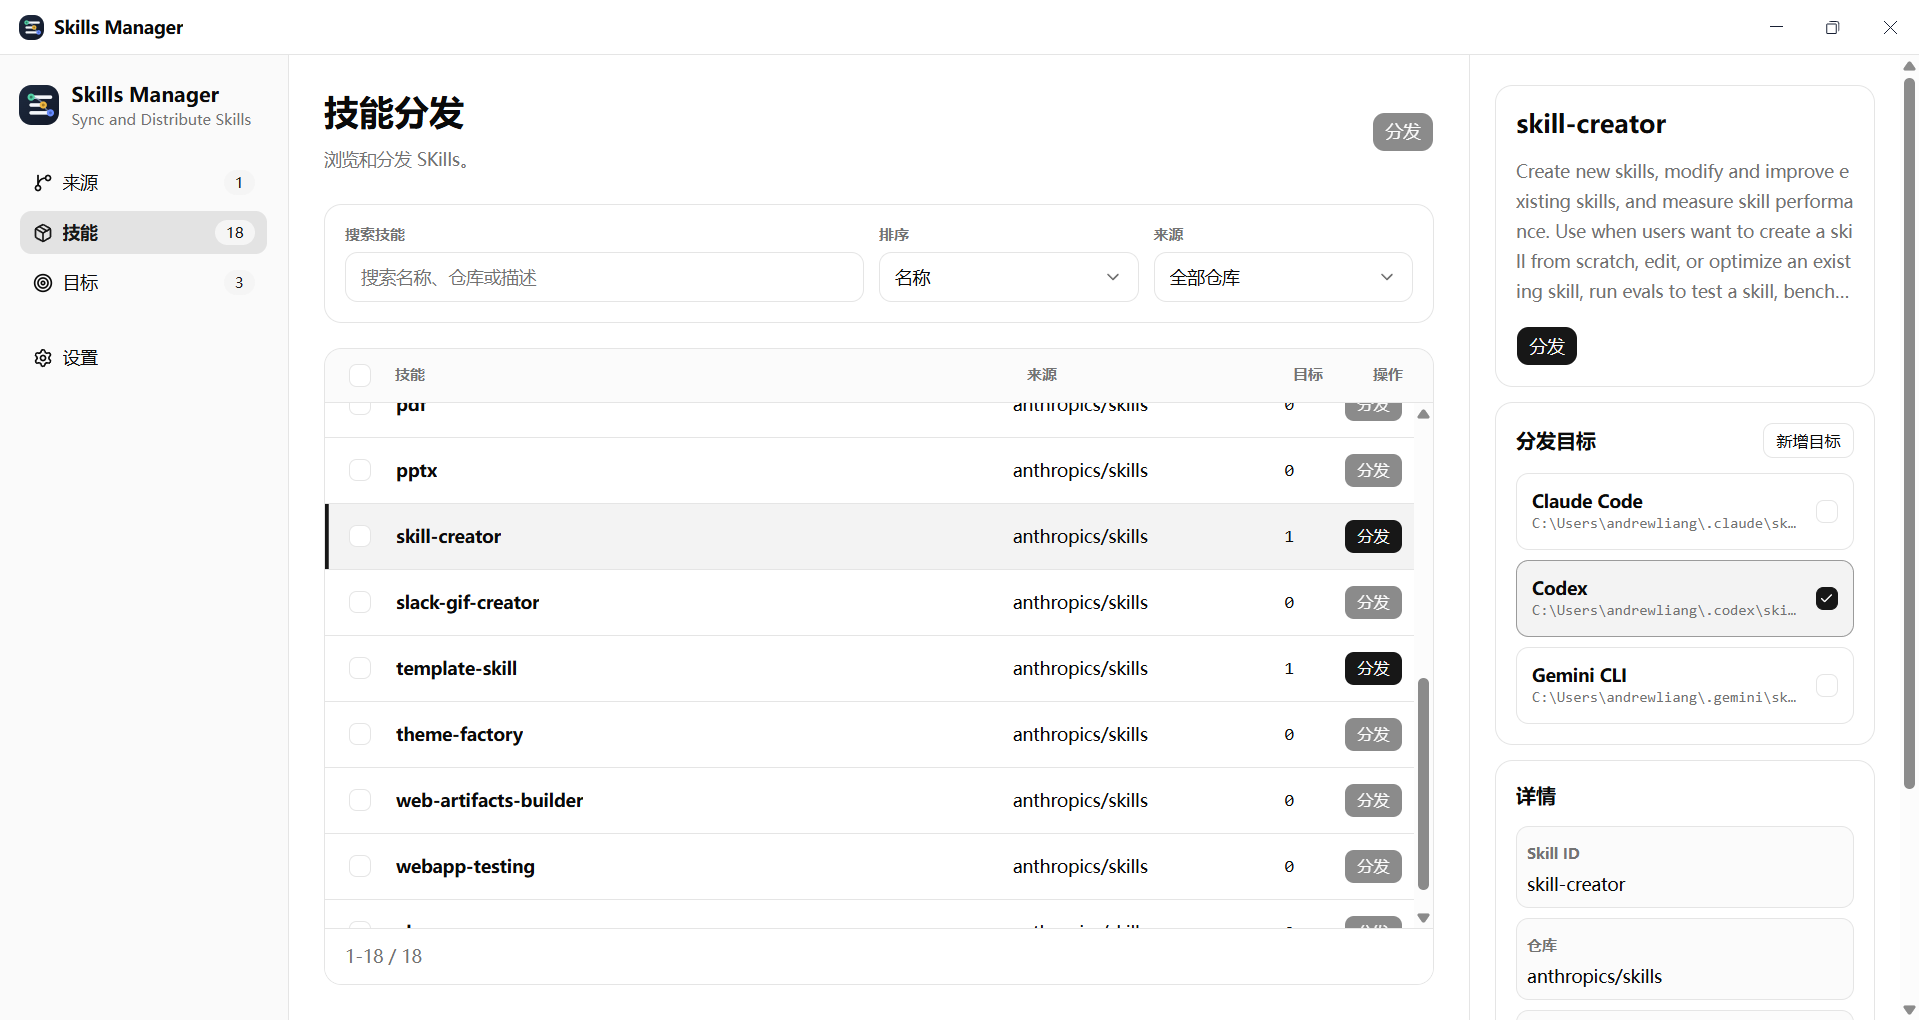
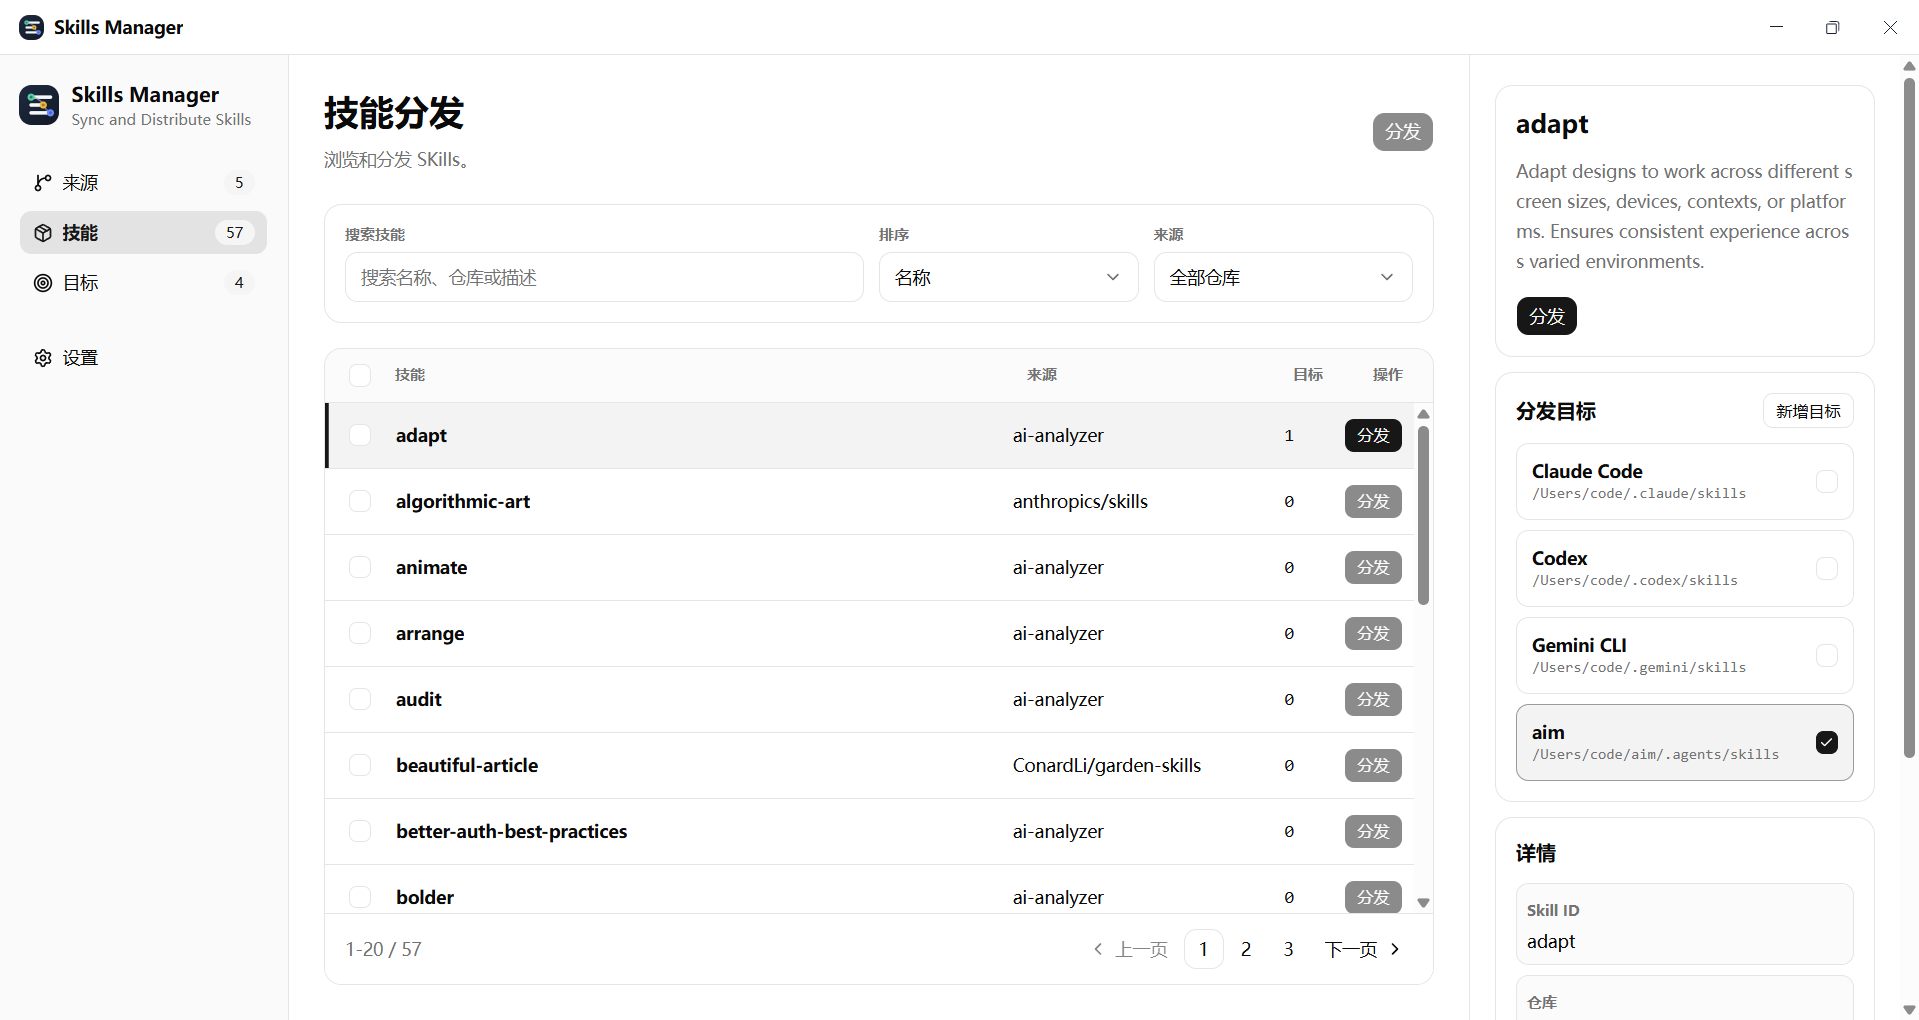
chore: refresh product screenshots and target copy

diff --git a/apps/desktop/src/renderer/features/targets/targets-page.test.tsx b/apps/desktop/src/renderer/features/targets/targets-page.test.tsx
@@ -392,7 +392,7 @@ describe("TargetsPage", () => {
     expect(pageHeader).not.toBeNull();
     expect(within(pageHeader as HTMLElement).queryByText("Targets")).not.toBeInTheDocument();
     expect(
-      screen.getByText("扫描本机 agent 目录，并汇总 Skills 页面已选择的本地目标。")
+      screen.getByText("扫描本机 Agent 目录，并汇总 Skills 页面已选择的本地目标。")
     ).toBeInTheDocument();
     const headerButtons = within(pageHeader as HTMLElement)
       .getAllByRole("button")

diff --git a/apps/desktop/src/renderer/i18n/resources.ts b/apps/desktop/src/renderer/i18n/resources.ts
@@ -173,7 +173,7 @@ export const resources = {
       targets: {
         pageLabel: "Targets",
         heading: "目标管理",
-        description: "扫描本机 agent 目录，并汇总 Skills 页面已选择的本地目标。",
+        description: "扫描本机 Agent 目录，并汇总 Skills 页面已选择的本地目标。",
         empty: "没有匹配的目标。调整搜索条件。",
         actions: {
           addTarget: "新增",
